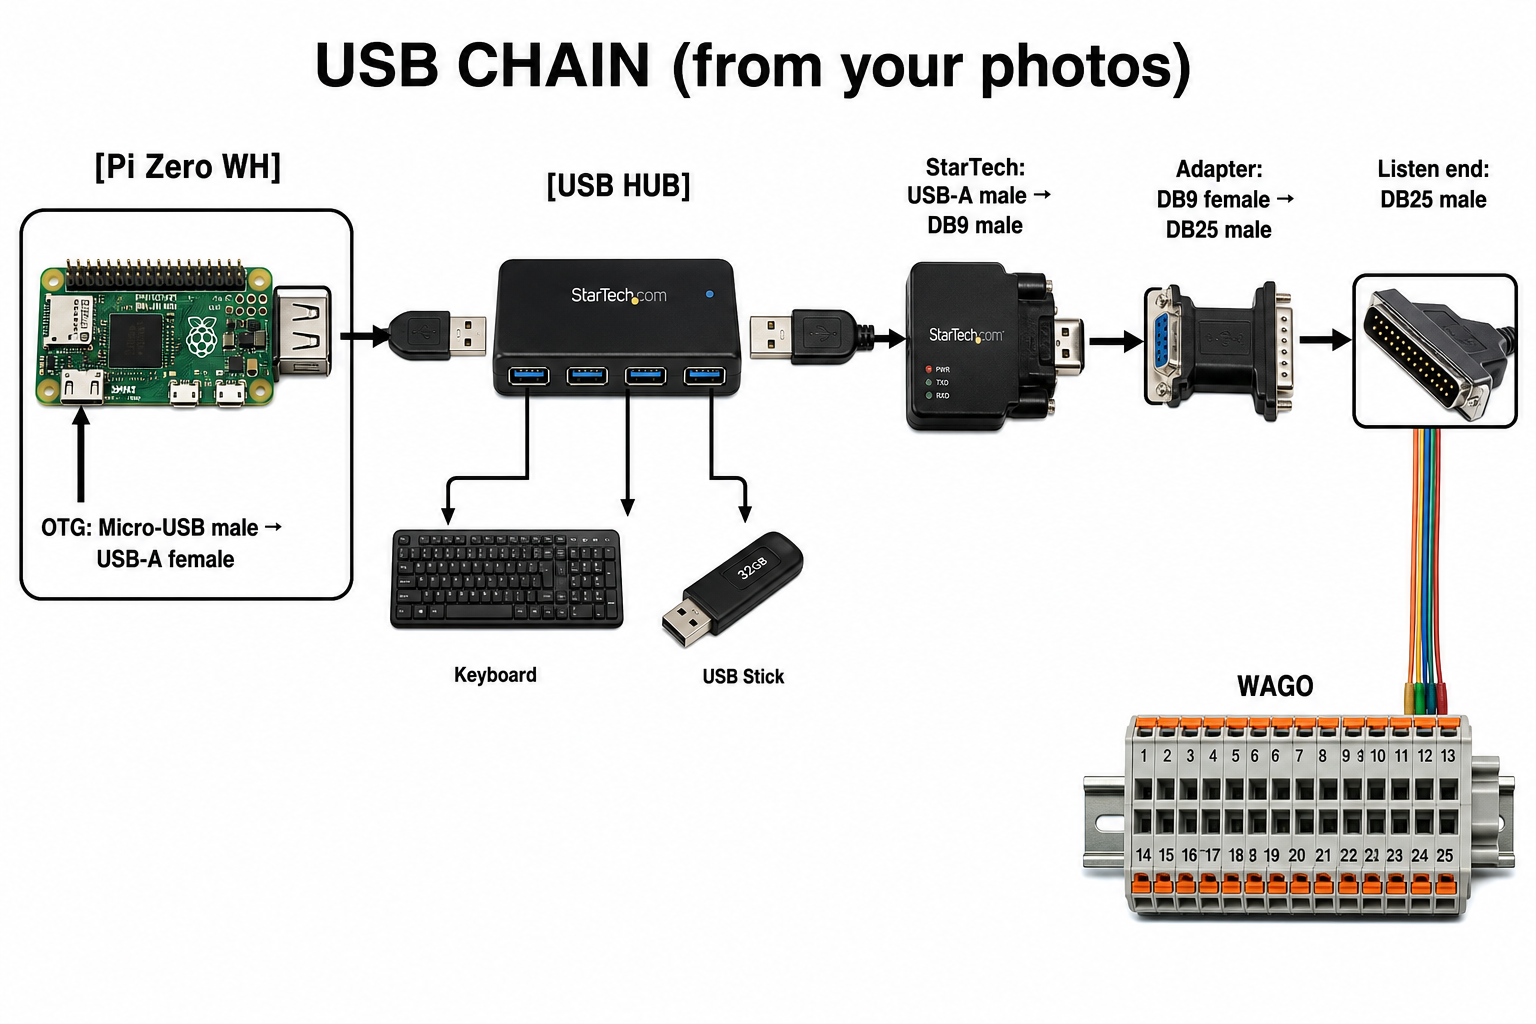
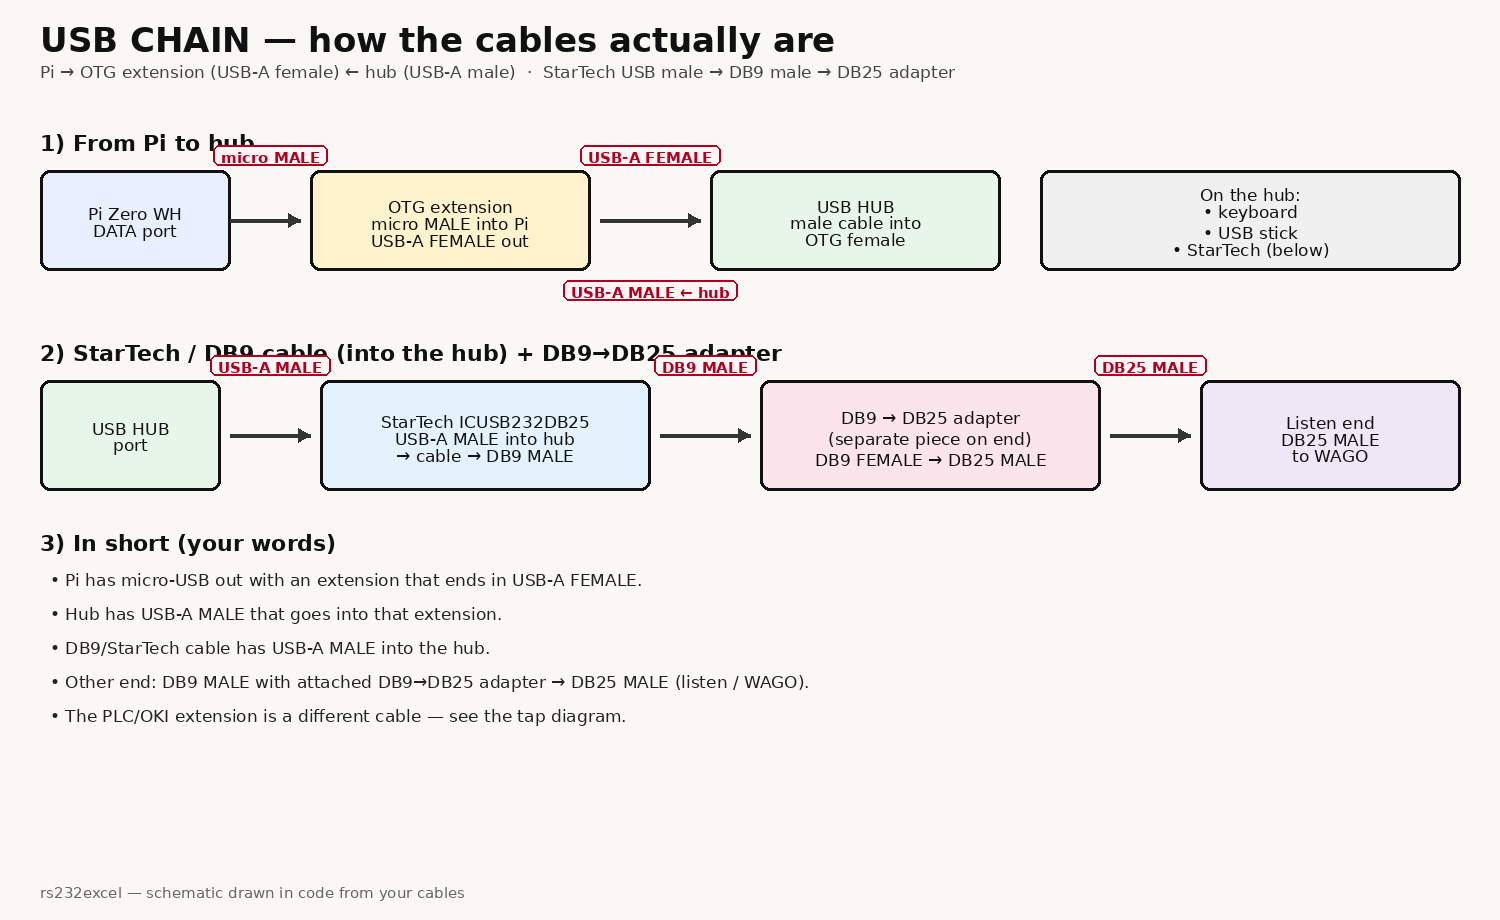
USB-skjema på nytt: OTG-hunn, hub-hann, DB9→DB25 tegnet
Tegnet som kode-skjema etter faktiske kabler — ikke AI-illustrasjon.
Pi → skjøtekabel (USB-A hunn) ← hub (hann); StarTech USB-hann →
DB9 hann + egen DB9→DB25-adapter.

diff --git a/docs/en/wiring.md b/docs/en/wiring.md
@@ -8,8 +8,9 @@
 |------|-----------|
 | PLC and OKI | **DB25** |
 | Extension (middle) | Often a **DB9** cable with **DB25 adapters** on each end |
-| Pi OTG | micro-USB **male** (into Pi) → USB-A **female** (hub male plugs in) |
-| Pi listen | StarTech ICUSB232DB25: USB-A **male** → DB9 **male** → separate adapter DB9 **female**→DB25 **male** → WAGO |
+| Pi OTG extension | micro-USB **male** into Pi DATA → USB-A **female** out |
+| USB hub | its USB-A **male** cable into the OTG female |
+| StarTech / DB9 cable | USB-A **male** into hub → other end DB9 **male** + attached **DB9→DB25 adapter** → DB25 **male** to WAGO |
 
 The signals to tap are still **DB25 pin 2 (TX)** and **pin 7 (GND)** at the PLC/printer.  
 In the DB9 middle section that maps to:
@@ -50,11 +51,20 @@ The extension’s **DB25** ends go only into the PLC and printer.
 The listen adapter is a separate branch:
 
 ```text
-Pi ── micro-USB MALE ── OTG ── USB-A FEMALE
-                                    ↑
-                              hub (USB-A FEMALE ports)
-                                    ↑
-  USB-A MALE ── StarTech ── DB9 MALE ── adapter (DB9 FEMALE→DB25 MALE) ── WAGO
+Pi DATA ── micro-USB MALE ── OTG extension ── USB-A FEMALE
+                                                    ↑
+                              hub USB-A MALE ───────┘
+                                    │
+                    ┌───────────────┴── hub ports ────────────────┐
+                    │                                             │
+               keyboard / USB stick          StarTech DB9 cable:
+                                             USB-A MALE into hub
+                                                   │
+                                             DB9 MALE
+                                                   │
+                                      DB9→DB25 adapter (separate)
+                                                   │
+                                             DB25 MALE → WAGO
 ```
 
 | From WAGO | To listen adapter (serial end) |

diff --git a/docs/no/wiring.md b/docs/no/wiring.md
@@ -8,8 +8,9 @@
 |-----|---------|
 | PLS og OKI | **DB25** |
 | Skjøtekabel (midt) | Ofte **DB9**-kabel med **DB25-adapter** i hver ende |
-| Pi OTG | micro-USB **hann** (inn i Pi) → USB-A **hunn** (hubens hann plugges inn) |
-| Pi-lytting | StarTech ICUSB232DB25: USB-A **hann** → DB9 **hann** → egen adapter DB9 **hunn**→DB25 **hann** → WAGO |
+| Pi OTG-skjøtekabel | micro-USB **hann** inn i Pi DATA → USB-A **hunn** ute |
+| USB-hub | egen USB-A **hann**-kabel inn i OTG-hunnen |
+| StarTech / DB9-kabel | USB-A **hann** inn i hubben → andre enden DB9 **hann** + påsatt **DB9→DB25-adapter** → DB25 **hann** til WAGO |
 
 Signalet som skal tappes er fortsatt **DB25 pin 2 (TX)** og **pin 7 (GND)** på PLS/OKI-siden.  
 I DB9-midten tilsvarer det:
@@ -50,11 +51,20 @@ Skjøtens **DB25** går bare til PLS og skriver.
 Lytteadapteren er egen grein:
 
 ```text
-Pi ── micro-USB HANN ── OTG ── USB-A HUNN
-                                    ↑
-                              hub (USB-A HUNN-porter)
-                                    ↑
-  USB-A HANN ── StarTech ── DB9 HANN ── adapter (DB9 HUNN→DB25 HANN) ── WAGO
+Pi DATA ── micro-USB HANN ── OTG-skjøtekabel ── USB-A HUNN
+                                                    ↑
+                              hubens USB-A HANN ────┘
+                                    │
+                    ┌───────────────┴── hub-porter ───────────────┐
+                    │                                             │
+               tastatur / USB-pinne          StarTech DB9-kabel:
+                                             USB-A HANN inn i hub
+                                                   │
+                                             DB9 HANN
+                                                   │
+                                      DB9→DB25-adapter (egen del)
+                                                   │
+                                             DB25 HANN → WAGO
 ```
 
 | Fra WAGO | Til lytteadapter (serie-ende) |

diff --git a/docs/no/INSTALLATION.md b/docs/no/INSTALLATION.md
@@ -141,22 +141,26 @@ Steg for steg:
 
 ### USB-kjede
 
-<img src="img/usb-kjede-komplett.png" width="100%" alt="USB-kjede: Pi DATA → OTG (USB-A hunn) → hub → StarTech DB9 hann → DB25 hann"/>
+<img src="img/usb-kjede-komplett.png" width="100%" alt="USB-kjede: Pi → OTG-hunn ← hub-hann; StarTech USB-hann → DB9 → DB25-adapter"/>
 
-OTG-adapteren **må** i **data**-porten midt på Pi Zero — hjørneporten er kun strøm (**PWR IN**).  
-Fra bildene: OTG er micro-USB **hann** → USB-A **hunn**. StarTech ender i DB9 **hann**; egen adapter gir DB25 **hann** til WAGO.
+OTG-skjøtekabelen **må** i **data**-porten midt på Pi Zero — hjørneporten er kun strøm (**PWR IN**).
 
-**Anbefalt produksjonsoppsett (tastatur + minnepenn + serieadapter samtidig):**
+**Slik kablene er:**
 
 ```text
 PWR IN (hjørne) ─── 5V / ≥2,5 A vegglader (helst 3 A)
 
-USB midt ─── OTG (USB-A hunn) ─── USB-hub (gjerne med egen strøm)
+Pi DATA ── micro-USB HANN ── OTG-skjøtekabel ── USB-A HUNN
+                                                    ↑
+                              hubens USB-A HANN ────┘
+                                    │
                          ├── USB-tastatur
                          ├── minnepenn      → /media/usb0 (CSV+Excel)
-                         └── StarTech ICUSB232DB25
-                               USB-A hann → DB9 hann → adapter → DB25 hann → WAGO
-                               → /dev/ttyUSB0
+                         └── StarTech / DB9-kabel:
+                               USB-A HANN inn i hub
+                               → DB9 HANN
+                               → DB9→DB25-adapter (egen del)
+                               → DB25 HANN → WAGO → /dev/ttyUSB0
 ```
 
 - SD-kortet er alltid fasiten (fangst fortsetter uten minnepenn).

diff --git a/docs/en/INSTALLATION.md b/docs/en/INSTALLATION.md
@@ -103,10 +103,11 @@ Step by step:
 
 ### USB chain
 
-<img src="img/usb-chain-complete.png" width="100%" alt="USB chain: Pi DATA → OTG (USB-A female) → hub → StarTech DB9 male → DB25 male"/>
+<img src="img/usb-chain-complete.png" width="100%" alt="USB chain: Pi → OTG female ← hub male; StarTech USB male → DB9 → DB25 adapter"/>
 
-The OTG adapter **must** go in the middle **data** port on the Pi Zero — the corner port is power-only (**PWR IN**, ≥2.5 A wall supply).  
-From the photos: OTG is micro-USB **male** → USB-A **female**. StarTech ends in DB9 **male**; a separate adapter gives DB25 **male** to WAGO.
+The OTG extension **must** go in the middle **data** port on the Pi Zero — the corner port is power-only (**PWR IN**, ≥2.5 A wall supply).
+
+**How the cables are:** Pi DATA → micro-USB male → OTG extension ending in USB-A **female** ← hub USB-A **male**. StarTech/DB9 cable: USB-A **male** into hub → DB9 **male** → separate DB9→DB25 adapter → DB25 **male** to WAGO.
 
 ### OLED status display (optional)
 

diff --git a/CHANGELOG.md b/CHANGELOG.md
@@ -58,8 +58,9 @@ Tester: `cd python/no && python3 -m unittest test_register.py`
 
 ### USB-kjede og strøm
 
-- Pi Zero **data-port** → OTG (micro-USB **hann** → USB-A **hunn**) → hub → tastatur + minnepenn + StarTech
-- StarTech ICUSB232DB25: USB-A **hann** → DB9 **hann** → egen adapter → DB25 **hann** → WAGO
+- Pi DATA → OTG-skjøtekabel (USB-A **hunn**) ← hub (USB-A **hann**)
+- StarTech/DB9-kabel: USB-A **hann** inn i hub → DB9 **hann** → egen **DB9→DB25-adapter** → DB25 **hann** → WAGO
+- USB-diagram tegnet som skjema (ikke AI-illustrasjon) etter faktiske kabler
 - **PWR IN:** 5V / ≥2,5 A (helst 3 A) vegglader — ikke svak telefonlader
 - Auto-mount til `/media/usb0` (`fiks-usb.sh` + udev)
 - Hotplug: penn ut/inn synkes ved neste sjekk / pakke
